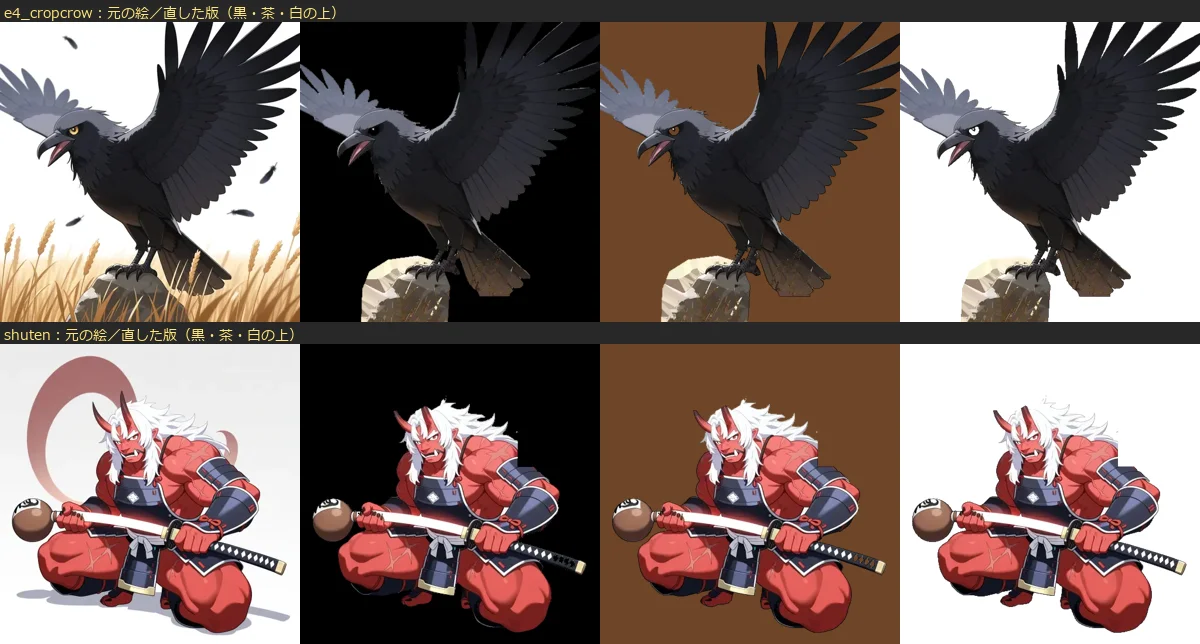
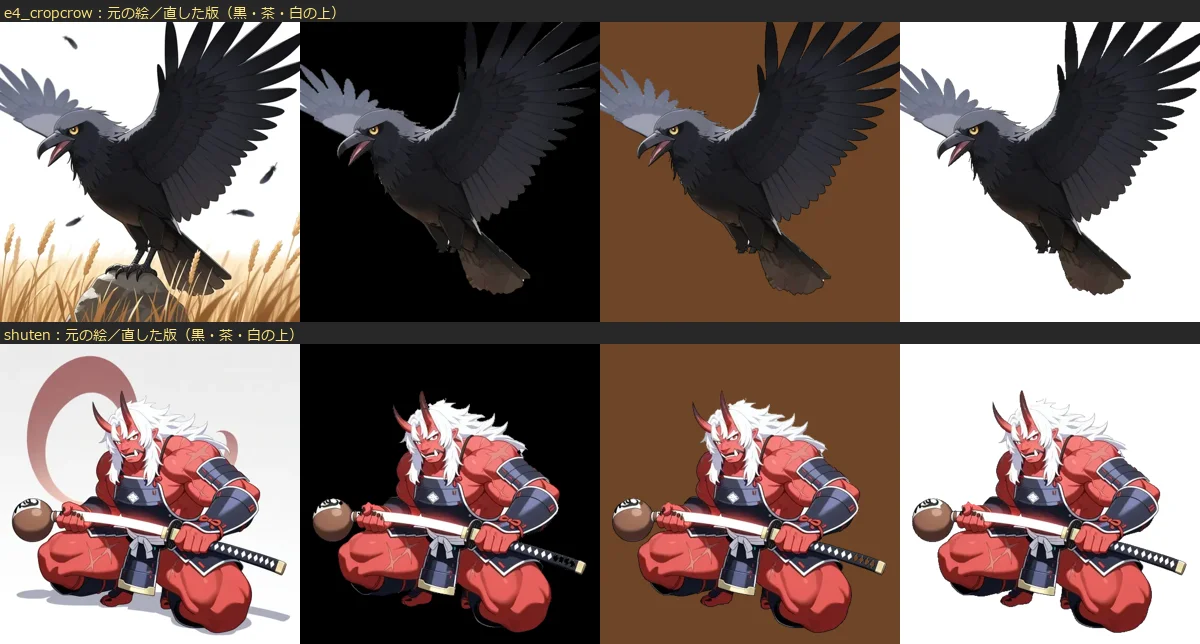
作り直しの確認（確認票 9 の直し 2）：e4_cropcrow は目を残し、岩を消して飛ぶ姿に・尾の麦を羽の色で埋める／shuten は弧の色だけを消して髪を元のとおりに戻し、浮いた点を消す
keep_orig.py：体の形を塗り直しの前の元の絵から取る、尾のすき間を閉じる close_poly、目など黄色でも残す keep_yellow、
弧の色だけを消す drop_arc（顔は arc_keep、角は arc_keep_dark で守る）、本体から離れた小さな点を消す。

Claude-Session: https://claude.ai/code/session_011Kp4AbAXdzXbnvYnjXXoLh

diff --git a/tools/keep_orig.py b/tools/keep_orig.py
@@ -56,6 +56,22 @@ def bg_region(rgb, body, conf):
     bg = (body < 0.5) | holes
     if conf.get("drop"):
         bg |= poly_mask(conf["drop"], (W, H))
+    if conf.get("drop_arc"):
+        # 体の後ろの弧など、決まった色（くすんだ桃色）の所だけを、四角の中で背景にする
+        R, G, Bc = c[..., 0], c[..., 1], c[..., 2]
+        arc = (R - G > 25) & (R - G < 80) & (np.abs(G - Bc) < 14) & (G > 95) & (R > 140)
+        box = np.zeros(arc.shape, bool)
+        for x0, y0, x1, y1 in conf["drop_arc"]:
+            box[y0:y1, x0:x1] = True
+        # 弧の縁の薄い所（白に溶ける所）も含める
+        am = ndimage.binary_dilation(arc & box, iterations=3) & box & ((R - G > 8) | (c.min(axis=2) > 200))
+        if conf.get("arc_keep"):
+            am &= ~poly_mask(conf["arc_keep"], (W, H))  # 顔など、弧の色に近い体の所は弧として消さない
+        if conf.get("arc_keep_dark"):
+            # 角など：四角の中の暗い所（とその 1 画素のまわり）だけを残す
+            dark = ndimage.binary_dilation((G < 80) & (R < 180), iterations=1)
+            am &= ~(poly_mask(conf["arc_keep_dark"], (W, H)) & dark)
+        bg |= am
     if conf.get("keep"):
         bg &= ~poly_mask(conf["keep"], (W, H))
     return bg, B
@@ -82,14 +98,21 @@ def main():
         conf = confs.get(base, {})
         path = os.path.join(a.src, i + ".webp")
         rgb = np.array(Image.open(path).convert("RGB"))
+        # 体の形は元の絵から（塗り直しの前に。塗り直した所を体と見なさないため）
+        body = np.array(cm.cut(ses, path, remove))[..., 3].astype(np.float32) / 255
         yellow = lambda c: (c[..., 0].astype(int) > 110) & (c[..., 0].astype(int) - c[..., 2] > 45) & (c[..., 1].astype(int) - c[..., 2] > 25)
         for x0, y0, x1, y1 in conf.get("patch_yellow", []):
             # 体に重なった麦の穂など（黄色）を、まわりの黄色でない色で塗り直す
             box = np.zeros(rgb.shape[:2], bool); box[y0:y1, x0:x1] = True
             c16 = rgb.astype(int)
             # 麦：黄色に加え、羽の灰黒より明るく赤みのある所（薄茶・白っぽい穂）も
-            wheat = yellow(rgb) | ((c16.mean(axis=2) > 95) & (c16[..., 0] - c16[..., 2] > 12))
-            spot = box & wheat
+            wheat = yellow(rgb) | ((c16.mean(axis=2) > 95) & (c16[..., 0] - c16[..., 2] > 12)) | ((c16[..., 0] - c16[..., 2] > 22) & (c16[..., 1] - c16[..., 2] > 8))
+            wheat = ndimage.binary_dilation(wheat, iterations=1)
+            # 体の形の、麦の茎で切れたすき間を閉じる（四角の中だけ）
+            cbox = poly_mask(conf["close_poly"], (rgb.shape[1], rgb.shape[0])) if conf.get("close_poly") else box
+            closed = ndimage.binary_fill_holes(ndimage.binary_closing(body > 0.5, iterations=8)) & cbox
+            body = np.where(closed, 1.0, body).astype(np.float32)
+            spot = box & wheat & (body > 0.5)  # 体の中だけ塗り直す（外の麦は背景として抜く）
             if spot.any():
                 # 塗る色は、四角の中の暗く色の無い所（羽）からとる
                 ref = box & ~ndimage.binary_dilation(spot, iterations=2) & (c16.mean(axis=2) < 90) & (c16.max(axis=2) - c16.min(axis=2) < 30)
@@ -110,11 +133,12 @@ def main():
             p2 = os.path.join(a.out, "_patched_" + i + ".png")
             Image.fromarray(rgb).save(p2)
             path = p2
-        body = np.array(cm.cut(ses, path, remove))[..., 3].astype(np.float32) / 255
         bg, B = bg_region(rgb, body, conf)
         if conf.get("drop_yellow"):
             # 残った麦（黄色）は背景として消す（keep の所は除く）
             ky = yellow(rgb)
+            if conf.get("keep_yellow"):
+                ky &= ~poly_mask(conf["keep_yellow"], (rgb.shape[1], rgb.shape[0]))  # 目など、黄色でも残す所
             bg |= ndimage.binary_dilation(ky, iterations=1)
         if conf.get("solid"):
             # 止まり木の岩など：麦に隠れた所も含めて形ごと残す（黄色は岩の灰色に塗り直す）
@@ -134,6 +158,14 @@ def main():
         fg = cm.decontaminate(rgb, (a_fg[..., 0] * 255).astype(np.uint8), B).astype(np.float32)
         # 3. クロマキー：緑は塗った所にしか無いので、G − max(R,B) で出る透明度は塗った量（1 − soft）と同じになる
         alpha = 1 - soft
+        # 本体から離れた小さな点（背景の残り）を消す
+        lab, n = ndimage.label(alpha > 0.05)
+        if n > 1:
+            sizes = ndimage.sum(np.ones_like(alpha), lab, range(1, n + 1))
+            big = int(np.argmax(sizes)) + 1
+            for k in range(1, n + 1):
+                if k != big and sizes[k - 1] < conf.get("min_island", 80):
+                    alpha[lab == k] = 0
         col = fg.copy()
         a8 = (alpha * 255).astype(np.uint8)
         a8 = np.where(a8 < 8, 0, np.where(a8 > 247, 255, a8)).astype(np.uint8)
